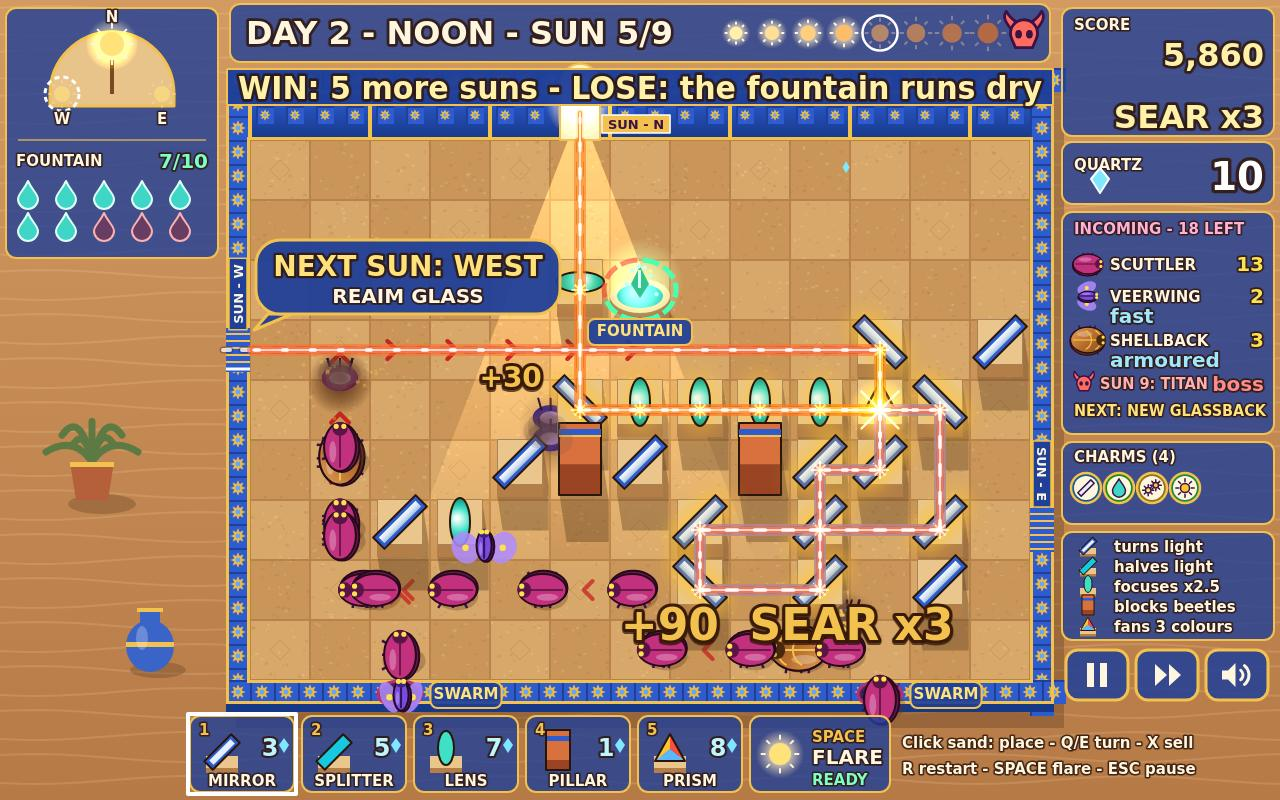
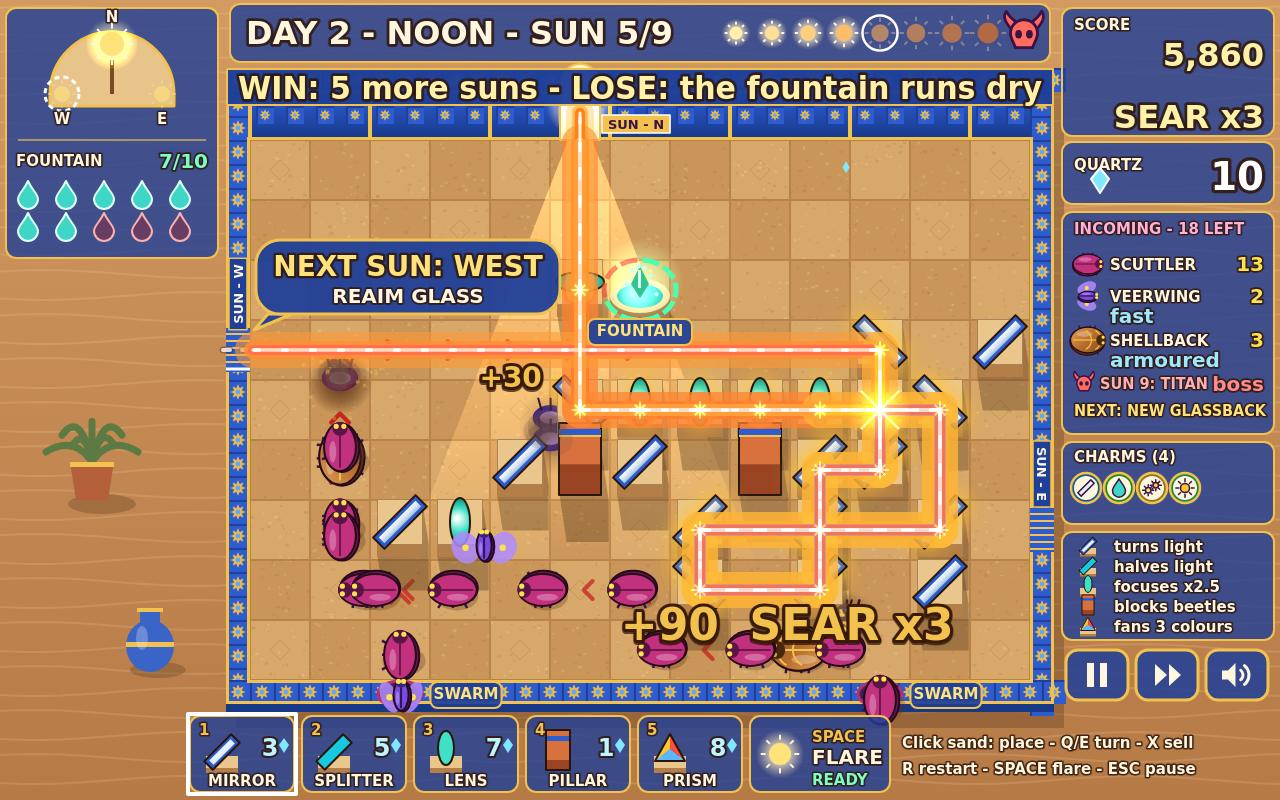
Bold beams again without the glare: wide warm glows lightened (not added) on the beam layer, 9.5 px tinted core and a white-hot centre, red light keeps a red glow, a little bolder during SEAR

Changed region(s): [[0.1875, 0.125, 0.75, 0.7812]]

diff --git a/game/src/render/fx.js b/game/src/render/fx.js
@@ -266,10 +266,18 @@ function drawStarburst(ctx, x, y, r, alpha) {
 }
 
 /**
- * A beam's passes: [width per unit of power, cap px, alpha]: a soft halo (<= 12 px, 35%), the tinted
- * core (<= 6 px: orange sunlight, red or blue prism light) and a 2 px white centre line.
+ * A beam's passes on its own layer: two warm halos (gold whatever the tint, so red and blue light
+ * crossing never turns lilac; 'lighten' so overlaps keep one glow instead of adding up to glare),
+ * then the tinted core (8-10 px: orange sunlight, red / blue / gold prism light) and a white-hot centre.
+ * width: px per unit of power, capped; halo: [sunlight, focused, red prism light] (red keeps a red glow,
+ * blue and gold light glow gold), else colour index `tint` of TINT_COLORS.
  */
-const BEAM_PASSES = [[7, 12, 0.35], [3.5, 6, 0.95], [2, 2, 0.95]];
+const BEAM_PASSES = [
+  { halo: ['rgba(255,190,50,', 'rgba(255,140,40,', 'rgba(255,96,60,'], width: 26, cap: 36, alpha: 0.36, blend: 'lighten' },
+  { halo: ['rgba(255,150,30,', 'rgba(255,120,30,', 'rgba(255,80,50,'], width: 15, cap: 18, alpha: 0.6, blend: 'lighten' },
+  { tint: 1, width: 9.5, cap: 11, alpha: 0.95, blend: 'source-over' },
+  { tint: 2, width: 2.8, cap: 3, alpha: 0.95, blend: 'source-over' },
+];
 /** Glow / halo / core colours per tint: sunlight, red (1), blue (2), gold (4). */
 const TINT_COLORS = {
   0: ['rgba(255,197,49,', 'rgba(255,128,24,', 'rgba(255,251,230,'],
@@ -286,30 +294,32 @@ const FOCUS_COLORS = ['rgba(255,120,40,', 'rgba(255,160,60,', 'rgba(255,251,230,
  */
 export function drawBeams(ctx, trace, opts) {
   const alpha = opts.alpha ?? 1;
-  const surge = 1 + (opts.flare ?? 0) * 0.3;
-  // Beams go onto their own layer with normal blending, so crossings keep a gold glow, an orange
-  // edge and a white core instead of adding up to a white blot; the layer then lies over the scene.
+  // A Flare surges every beam; a live SEAR combo makes them a little bolder too.
+  const surge = (1 + (opts.flare ?? 0) * 0.3) * (opts.sear ? 1.08 : 1);
+  // Beams go onto their own layer (halos lightened, cores laid over), so crossings keep a gold glow,
+  // an orange edge and a white core instead of adding up to a white blot; the layer then lies over the scene.
   const layer = beamLayer(ctx);
   const g = layer.getContext('2d');
   g.setTransform(1, 0, 0, 1, 0, 0);
   g.clearRect(0, 0, layer.width, layer.height);
   g.setTransform(ctx.getTransform());
   g.lineCap = 'round';
-  for (let pass = 0; pass < 3; pass++) {
-    const [width, cap, a] = BEAM_PASSES[pass];
+  for (const pass of BEAM_PASSES) {
+    g.globalCompositeOperation = pass.blend;
     for (const leg of trace.legs) {
       const w = Math.min(1.7, Math.max(0.5, Math.sqrt(leg.power / 10))) * surge;
-      const colors = leg.focused && pass < 2 ? FOCUS_COLORS : TINT_COLORS[leg.tint] ?? TINT_COLORS[0];
-      g.strokeStyle = `${colors[pass]}${a})`;
-      g.lineWidth = Math.min(cap, width * w);
+      const color = pass.halo ? pass.halo[leg.tint === 1 ? 2 : leg.focused ? 1 : 0] : (leg.focused && pass.tint === 1 ? FOCUS_COLORS : TINT_COLORS[leg.tint] ?? TINT_COLORS[0])[pass.tint];
+      g.strokeStyle = `${color}${pass.alpha})`;
+      g.lineWidth = Math.min(pass.cap, pass.width * w);
       // Colour-blind option: prism light also differs by pattern (red long dashes, blue dots).
-      g.setLineDash(opts.patterns && pass >= 1 ? TINT_DASHES[leg.tint] ?? [] : []);
+      g.setLineDash(opts.patterns && !pass.halo ? TINT_DASHES[leg.tint] ?? [] : []);
       g.beginPath();
       g.moveTo(toScreenX(leg.x0), toScreenY(leg.y0));
       g.lineTo(toScreenX(leg.x1), toScreenY(leg.y1));
       g.stroke();
     }
   }
+  g.globalCompositeOperation = 'source-over';
   // Photons: bright dashes flowing along each leg, away from the sun.
   g.setLineDash([5, 23]);
   g.lineDashOffset = -(opts.time ?? 0) * 140;

diff --git a/game/src/render/scene.js b/game/src/render/scene.js
@@ -101,7 +101,7 @@ export function drawFrame(ctx, frame) {
       drawNextSunGhost(ctx, next.trace, bannerAtNextGate(run) ? '' : `NEXT ${NAMES.sun} (${next.wall})`, time);
     }
     const alpha = phase === 'wave' || phase === 'won' ? 1 : phase === 'build' ? 0.8 : 0.95;
-    drawBeams(ctx, ui.ghostTrace ?? run.trace, { alpha, flare: run.flareLeft > 0 ? 1 : 0, time, patterns: frame.patterns, enemies: ui.ghostTrace ? [] : run.enemies });
+    drawBeams(ctx, ui.ghostTrace ?? run.trace, { alpha, flare: run.flareLeft > 0 ? 1 : 0, sear: run.chain.count >= 2, time, patterns: frame.patterns, enemies: ui.ghostTrace ? [] : run.enemies });
   }
   drawFx(ctx, fx, phase !== 'draft');
   if (phase !== 'draft' && !frame.resultsHero) drawBoardTags(ctx, run);

diff --git a/NOTES.md b/NOTES.md
@@ -280,6 +280,13 @@
   a FEATS n/6 chip beside PLAY. The title is now shot last (after the staged run is saved): FEATS 4/6,
   NORMAL best 33,090. check-shot-truth replays both from the runs.
 
+- A/B 00:50Z (61673e1 vs d1c1363, 2-2): the 00b9096 beams were too thin at 252 px. Bold beams again:
+  outer warm glow (26 px per unit of power, cap 36, 36% alpha) and inner glow (15/18 px, 60%) drawn
+  with 'lighten' on the beam layer (overlaps keep one glow, no additive glare), gold for sunlight and
+  blue/gold prism light, red-orange for red light (red + gold lighten to orange, never lilac); tinted
+  core 9.5 px (cap 11) and a 3 px white-hot centre; +8% while a SEAR combo is live. Kept: no white
+  cell squares, lit panes glow on the sprite. Cover: 0 blown 32 px blocks.
+
 ## Next
 - Field benchmark 5: items 1-11 all committed (21:45 UTC). Open from older sections: staging below,
   Bench3-3 solved plan (6 stray panes on the cover), Bench3-5 board >= 58%.
